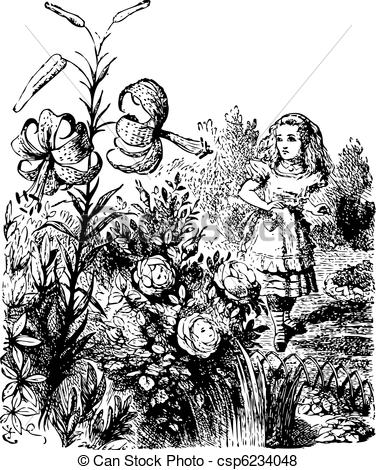
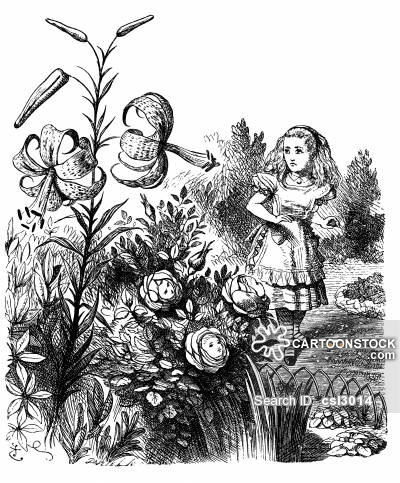
Added picture
added a better picture for chapter two and added it into the code

diff --git a/chapter_two.html b/chapter_two.html
@@ -7,6 +7,8 @@
   <body>
     <h2>CHAPTER II. The Garden of Live Flowers</h2>
 
+    <img src="img/ch_2_picture.jpg" alt="Alice walks through the living flowers">
+
     <p>
       ‘I should see the garden far better,’ said Alice to herself, ‘if I could
 get to the top of that hill: and here’s a path that leads straight to
